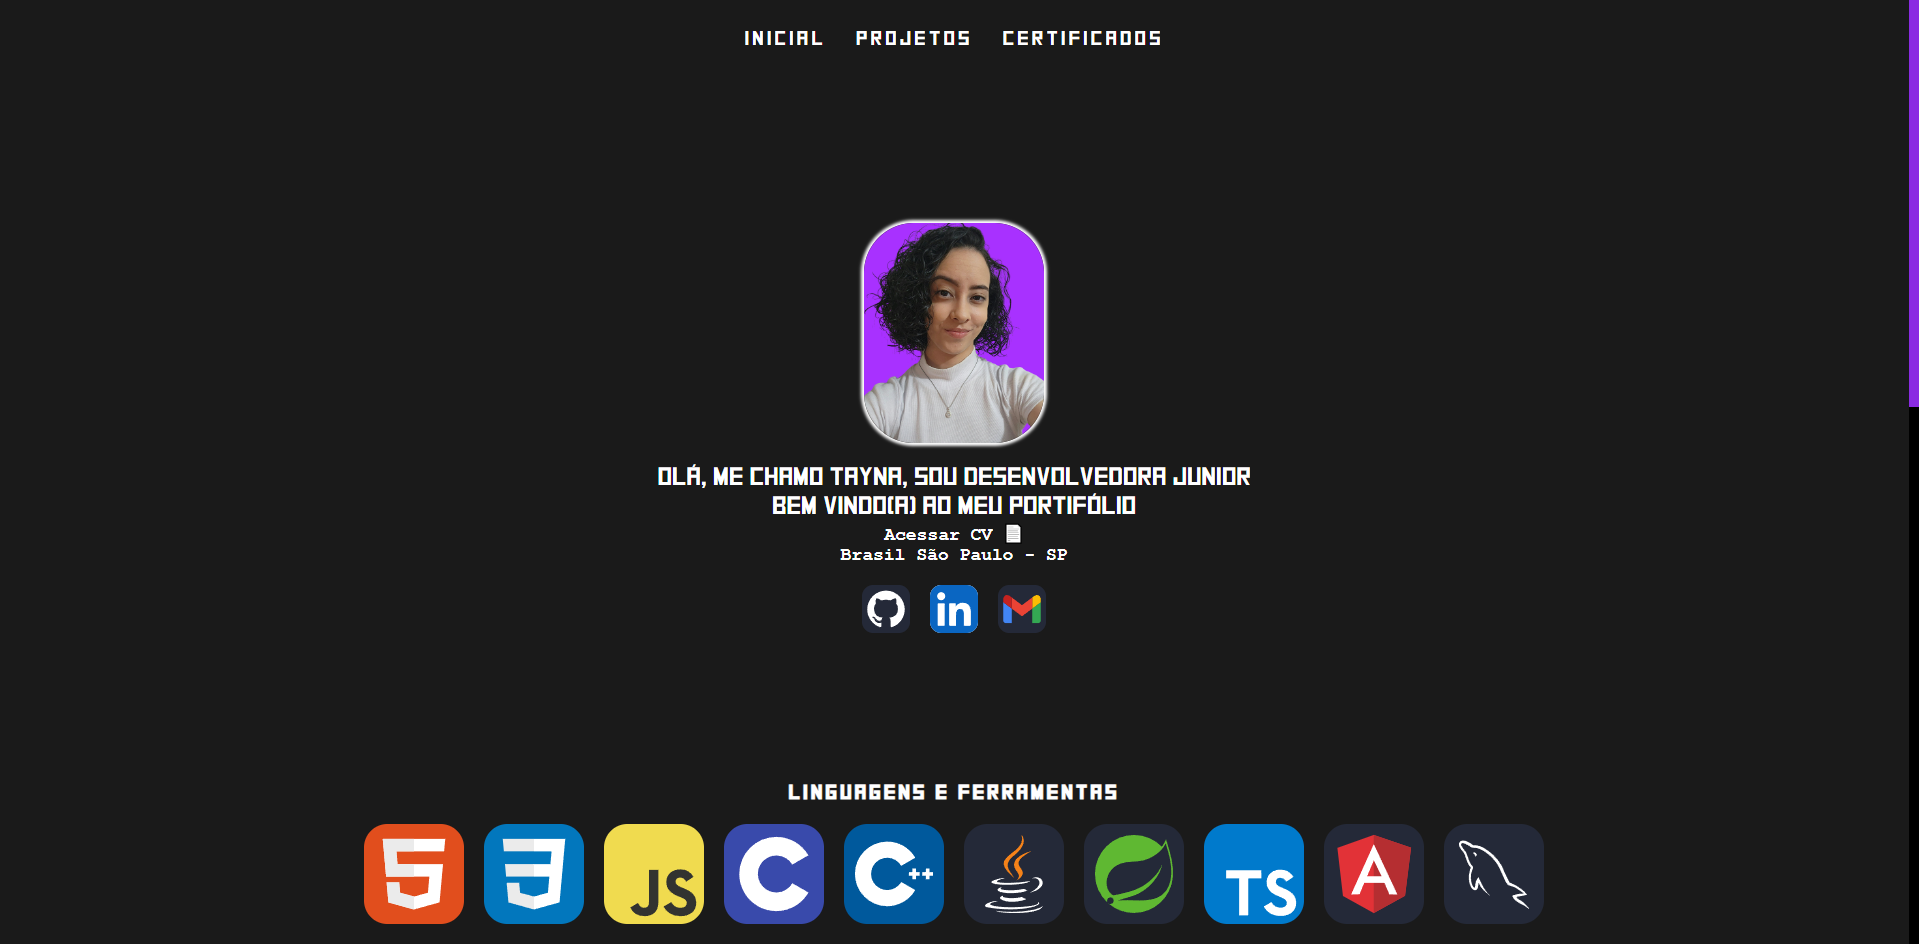
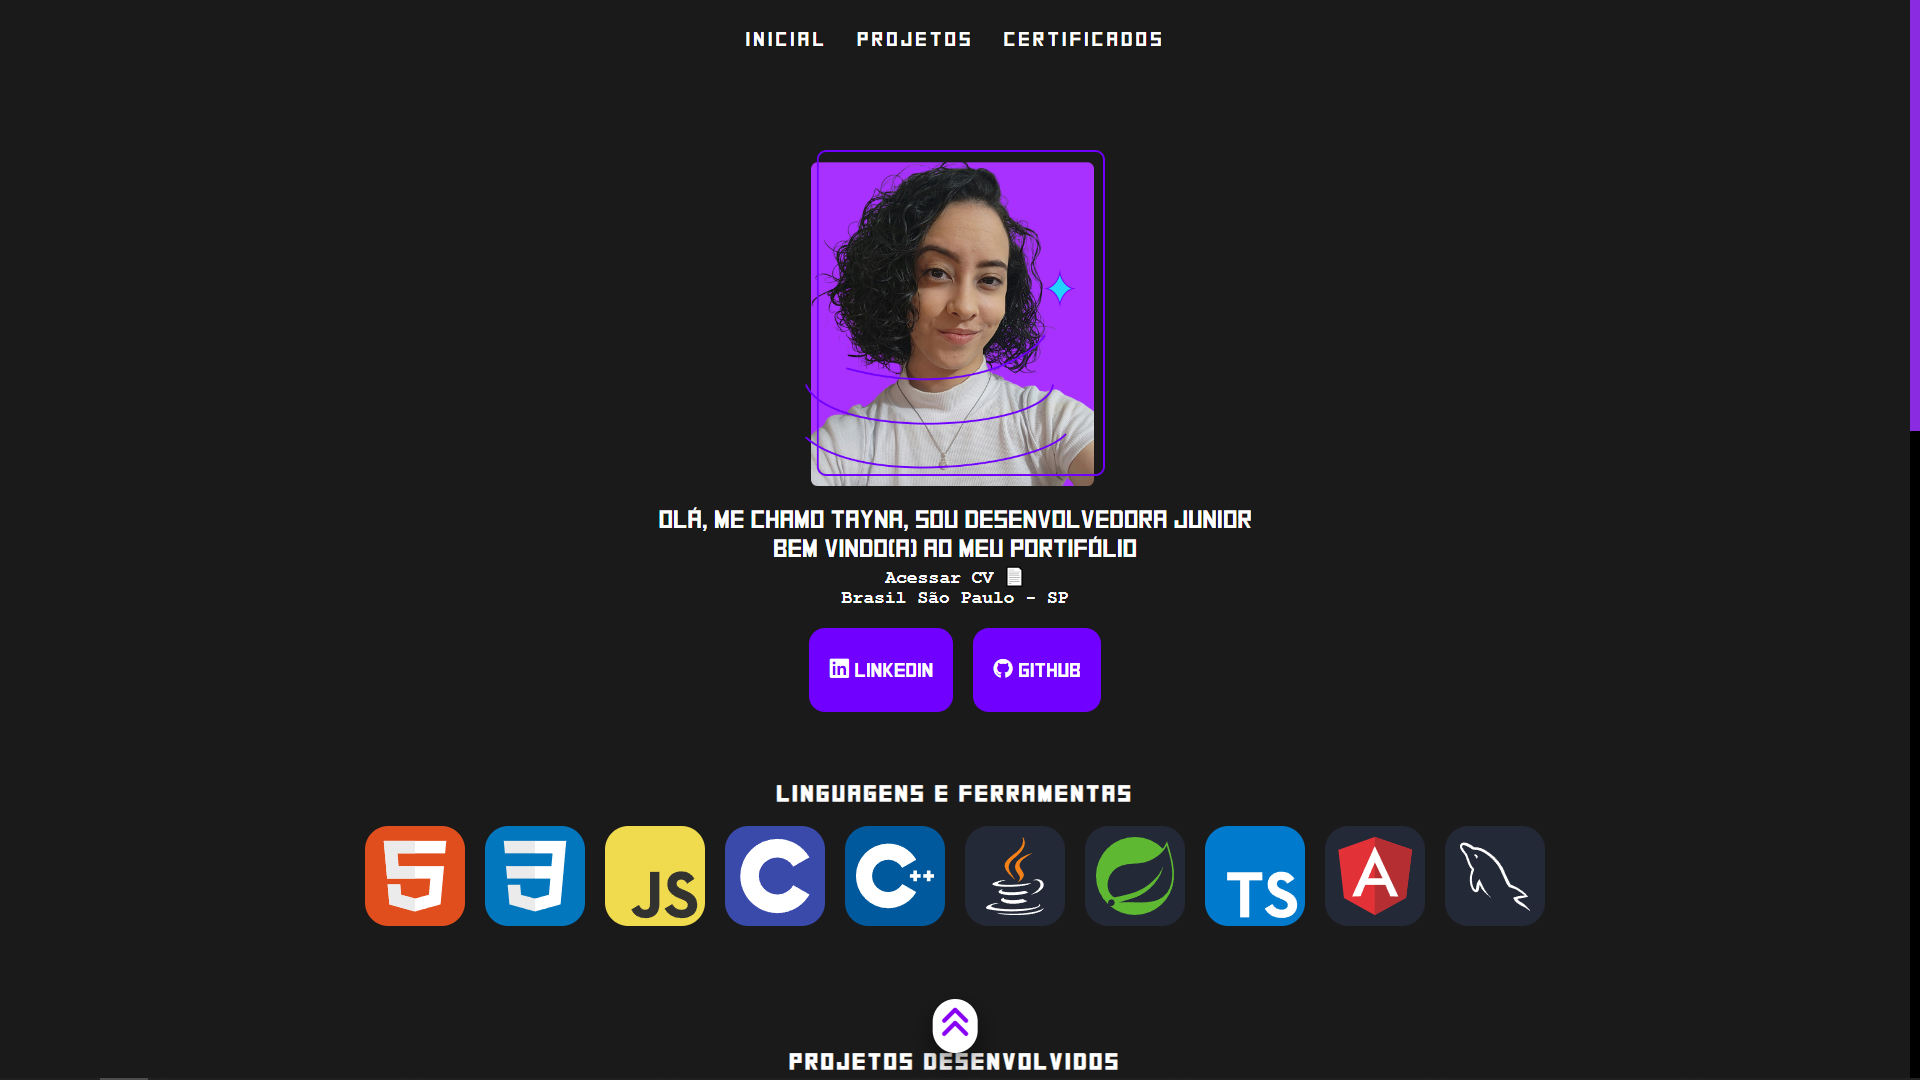
update_07/07

diff --git a/css/style.css b/css/style.css
@@ -105,10 +105,8 @@ p {
 }
 
 .perfil {
-    width: 180px;
     margin-bottom: 20px;
-    border-radius: 50px;
-    box-shadow: rgb(255, 255, 255) 0px 0px 3px 3px;
+    width: 300px;
 }
 
 section {
@@ -128,11 +126,31 @@ section h3 {
     font-size: 50px;
 }
 
-.blocos_contato {
-    padding-top: 20px;
+.apresentacao__links,
+li {
+    display: flex;
+    align-items: center;
+    justify-content: space-between;
+    gap: 20px;
+    font-family: 'Font1';
 }
 
-.blocos_contato,
+.apresentacao__links__link {
+    background-color: #7000ff;
+    color: #ffffff;
+    text-decoration: none;
+    text-align: center;
+    border-radius: 16px;
+    font-size: 20px;
+    padding: 30px 20px;
+    margin-top: 20px;
+}
+
+.apresentacao__links__link:hover {
+    background-color: #240052;
+    transition: 0.3s ease-in-out;
+}
+
 .blocos_linguagens,
 h1 {
     display: flex;
@@ -149,6 +167,8 @@ h1 {
     width: 100px;
 }
 
+/* Certicados e diplomas */
+
 .certificados img {
     width: 400px;
     height: 400px;
@@ -156,14 +176,12 @@ h1 {
     border-radius: 20px;
 }
 
-/* Certicados e diplomas */
-
 #certificados {
     margin-bottom: 10px;
 }
 
 #certificados h1 {
-    margin-bottom: -215px;
+    margin-bottom: -350px;
 }
 
 .blocos {
@@ -238,7 +256,11 @@ h1 {
 
 section h1 {
     padding: 120px;
-    font-size: 30px;
+    font-size: 22px;
+}
+
+.habilidades h1 {
+    font-size: 22px;
 }
 
 .container {
@@ -369,7 +391,7 @@ input {
 
 /* Definições mobile */
 
-@media (max-width: 1024px) {
+@media (max-width: 1200px) {
     .navigation {
         display: none;
     }
@@ -424,7 +446,7 @@ input {
 
     p {
         text-align: center;
-        font-size: 22px;
+        font-size: 20px;
     }
 
     .blocos_linguagens img {
@@ -432,8 +454,8 @@ input {
     }
 
     .container .slide img {
-        height: 90%;
-        width: 90%;
+        height: 80%;
+        width: 80%;
     }
 
     .container {
@@ -442,7 +464,7 @@ input {
     }
 
     .blocos {
-        margin-top: -100px;
+        margin-top: 0px;
         padding: 50px;
         display: flex;
         flex-direction: column;
@@ -450,12 +472,13 @@ input {
     }
 
     #certificados h1 {
-        margin-top: 300px;
-        margin-bottom: 0;
+        margin-top: 0px;
+        margin-bottom: -150px;
     }
+
 }
 
-@media (max-width: 450px) {
+@media (max-width: 750px) {
     .perfil {
         width: 150px;
     }
@@ -490,7 +513,7 @@ input {
     }
 
     #certificados h1 {
-        margin-top: -100px;
+        margin-top: 0px;
         margin-bottom: -100px;
     }
 
@@ -502,7 +525,7 @@ input {
 }
 
 @media (max-width: 400px) {
-    
+
     .container .slide img {
         height: 40%;
         width: 40%;
@@ -515,7 +538,7 @@ input {
 }
 
 @media (max-width: 390px) {
-    
+
     .container .slide img {
         height: 40%;
         width: 40%;
@@ -526,4 +549,3 @@ input {
     }
 
 }
-

diff --git a/index.html b/index.html
@@ -43,29 +43,20 @@
         <!-- Página principal -->
         <main>
             <div class="wrapper">
-                <img class="perfil" src="/img/perfil.jpg">
+                <img class="perfil" src="/img/perfil.png">
                 <p>Olá, me chamo Tayna, sou desenvolvedora Junior</p>
                 <p>Bem vindo(a) ao meu Portifólio</p>
                 <a target="_blank" href="/img/CV Tayna.pdf">
                     <h2>Acessar CV 📄</h2>
                 </a>
                 <h2>Brasil São Paulo - SP</h2>
-                <div class="blocos_contato">
-                    <div>
-                        <a target="_blank" href="https://github.com/Tayna0202">
-                            <img src="https://skillicons.dev/icons?i=github" />
-                        </a>
-                    </div>
-                    <div>
-                        <a target="_blank" href="https://www.linkedin.com/in/taynasimoes/">
-                            <img src="https://skillicons.dev/icons?i=linkedin" />
-                        </a>
-                    </div>
-                    <div>
-                        <a target="_blank" href="mailto:taynasimoes2024@gmail.com">
-                            <img src="https://skillicons.dev/icons?i=gmail" />
-                        </a>
-                    </div>
+                <div class="apresentacao__links">
+                    <a target="_blank" class="apresentacao__links__link" href="https://www.linkedin.com/in/taynasimoes/">
+                        <i class="devicon-linkedin-plain"></i>
+                        Linkedin</a>
+                    <a target="_blank" class="apresentacao__links__link" href="https://github.com/Tayna0202">
+                        <i class="devicon-github-original"></i>
+                        GitHub</a>
                 </div>
             </div>
         </main>
@@ -108,7 +99,7 @@
         </div>
     </div>
     <section id="sobre">
-    <h1>Projetos desenvolvidos</h1>
+    <h1 id="projetos">Projetos desenvolvidos</h1>
         <div class="container">
             <div class="slides">
 

diff --git a/README.md b/README.md
@@ -17,4 +17,5 @@ Acesse aqui ➡ <a target="_blank" href="https://taynaportifolio.vercel.app/">Li
 
 <div>
   <img src="./portifolio_capa.png" border-radius="20px">
+  <img src="./mobile.png" border-radius="20px">
 </div>
